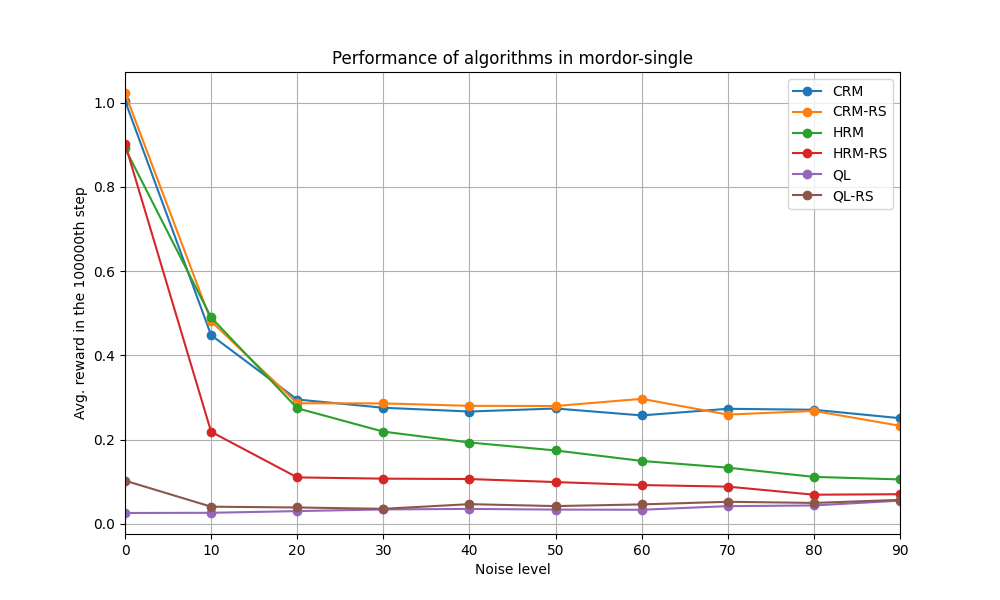
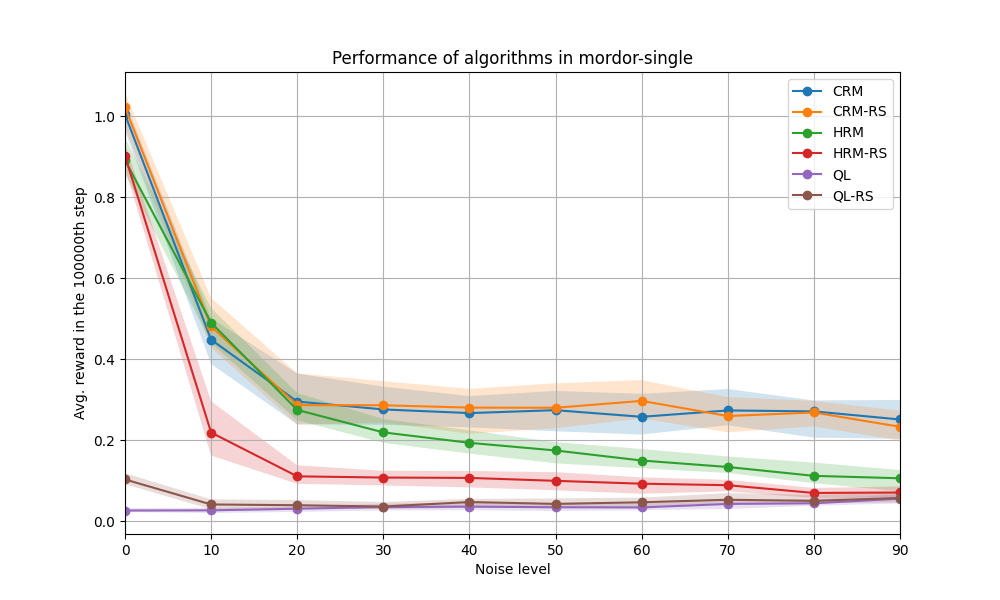
remove scripts and adjust some files

Changed region(s): [[0.093, 0.15, 0.899, 0.9], [0.093, 0.72, 0.124, 0.75]]

diff --git a/reward_machines/summarize_noise.py b/reward_machines/summarize_noise.py
@@ -8,6 +8,8 @@ algorithms = ['crm', 'crm-rs', 'hrm', 'hrm-rs', 'ql', 'ql-rs']
 
 for environment in environments:
     main_df = pd.DataFrame(columns=algorithms)
+    df_25th = pd.DataFrame(columns=algorithms)
+    df_75th = pd.DataFrame(columns=algorithms)
     for algorithm in algorithms:
         if 'mordor' in environment:
             # Read the table
@@ -16,7 +18,10 @@ for environment in environments:
         else:
             df = pd.read_csv(f'../test_results/summary/{environment}-{algorithm}.txt', delimiter='\t', 
                             names=['timestep', '25th', 'median', '75th'])
+            
         main_df.loc[0, algorithm] = df.iloc[-1].to_dict()['median']
+        df_25th.loc[0, algorithm] = float(df.iloc[-1]['25th'])
+        df_75th.loc[0, algorithm] = float(df.iloc[-1]['75th'])
     for noise in range(10, 99, 10):
         for algorithm in algorithms:
             if 'mordor' in environment:
@@ -29,13 +34,15 @@ for environment in environments:
                                 names=['timestep', '25th', 'median', '75th'])
             
             main_df.loc[noise // 10, algorithm] = df.iloc[-1].to_dict()['median']
+            df_25th.loc[noise // 10, algorithm] = float(df.iloc[-1]['25th'])
+            df_75th.loc[noise // 10, algorithm] = float(df.iloc[-1]['75th'])
 
            
     # Plotting the data
     plt.figure(figsize=(10, 6))
-    
     for algorithm in algorithms:
         plt.plot(main_df.index * 10, main_df[algorithm], marker='o', label=algorithm.upper())
+        plt.fill_between(df_25th.index * 10, df_25th[algorithm], df_75th[algorithm], alpha=0.2)
     
     plt.xlabel('Noise level')
     plt.ylabel('Avg. reward in the 100000th step')
